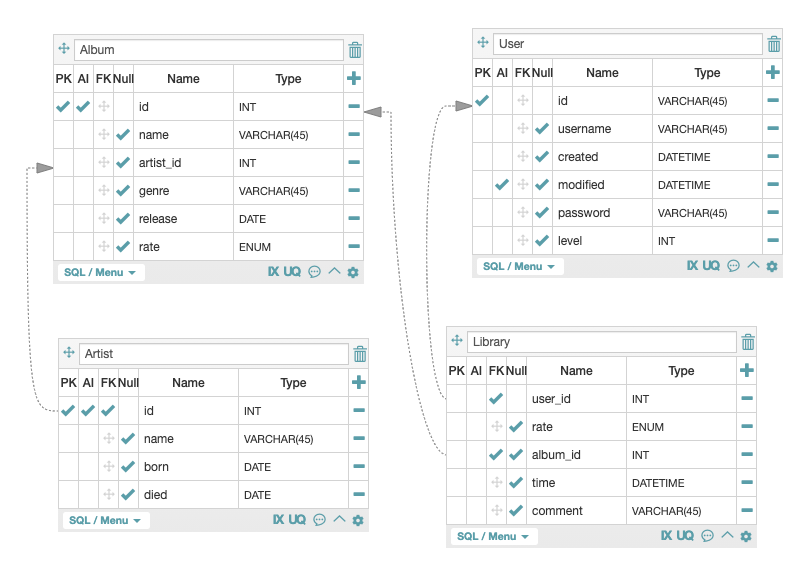
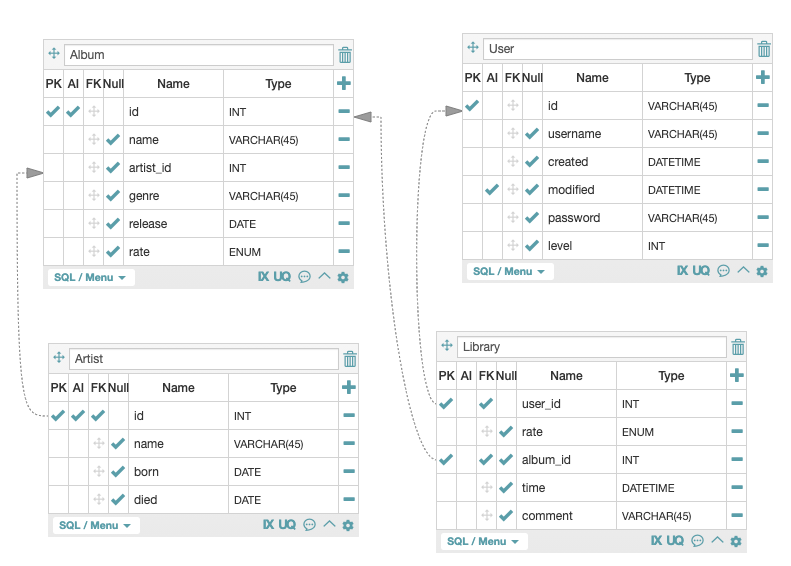
add ERD & add Library, Album, User

diff --git a/src/main/java/warsito/musicweblibrary/entity/Album.java b/src/main/java/warsito/musicweblibrary/entity/Album.java
@@ -1,4 +1,4 @@
-package warsito.musicweblibrary;
+package warsito.musicweblibrary.entity;
 
 import lombok.Data;
 
@@ -8,7 +8,8 @@ import java.time.LocalDate;
 public class Album {
     private final int id;
     private final String name;
-    private final String artist;
+    private final int artist_id;
     private final String genre;
     private final LocalDate release;
+    private Rate rate;
 }

diff --git a/src/main/java/warsito/musicweblibrary/entity/User.java b/src/main/java/warsito/musicweblibrary/entity/User.java
@@ -1,0 +1,15 @@
+package warsito.musicweblibrary.entity;
+
+import lombok.Data;
+
+import java.time.LocalDateTime;
+
+@Data
+public class User {
+    private final String id;
+    private final String username;
+    private final LocalDateTime created;
+    private LocalDateTime modified;
+    private String password;
+    private int level;
+}

diff --git a/src/main/java/warsito/musicweblibrary/entity/Library.java b/src/main/java/warsito/musicweblibrary/entity/Library.java
@@ -1,0 +1,14 @@
+package warsito.musicweblibrary.entity;
+
+import lombok.Data;
+
+import java.time.LocalDateTime;
+
+@Data
+public class Library {
+    private final int user_id;
+    private Rate rate;
+    private final int album_id;
+    private LocalDateTime time;
+    private String comment;
+}

diff --git a/src/main/java/warsito/musicweblibrary/entity/Rate.java b/src/main/java/warsito/musicweblibrary/entity/Rate.java
@@ -1,0 +1,5 @@
+package warsito.musicweblibrary.entity;
+
+public enum Rate {
+    GOOD, LIKE, LOVE;
+}
